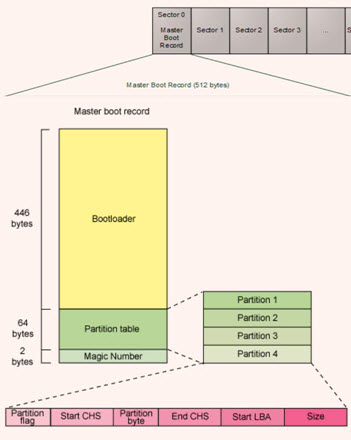
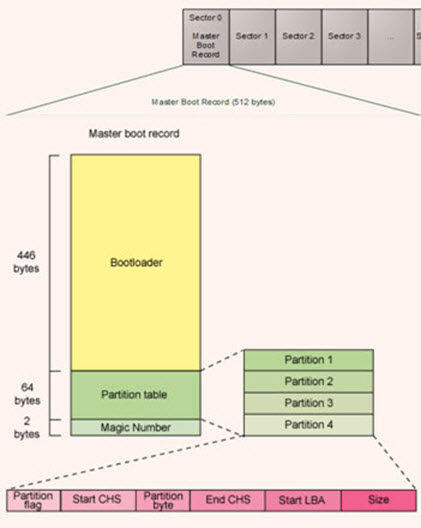
add boot sector

diff --git a/boot-sequence.md b/boot-sequence.md
@@ -49,6 +49,8 @@ Why do you need to know server's booting process?
 * MBR loads and executes the GRUB boot loader.
   * load stage 2 boot loader (in the /boot) through stage 1.5
 
+![](fig/boot-sector.png)
+
 ![](fig/MBR.jpg)
 
 ### Backup MBR
